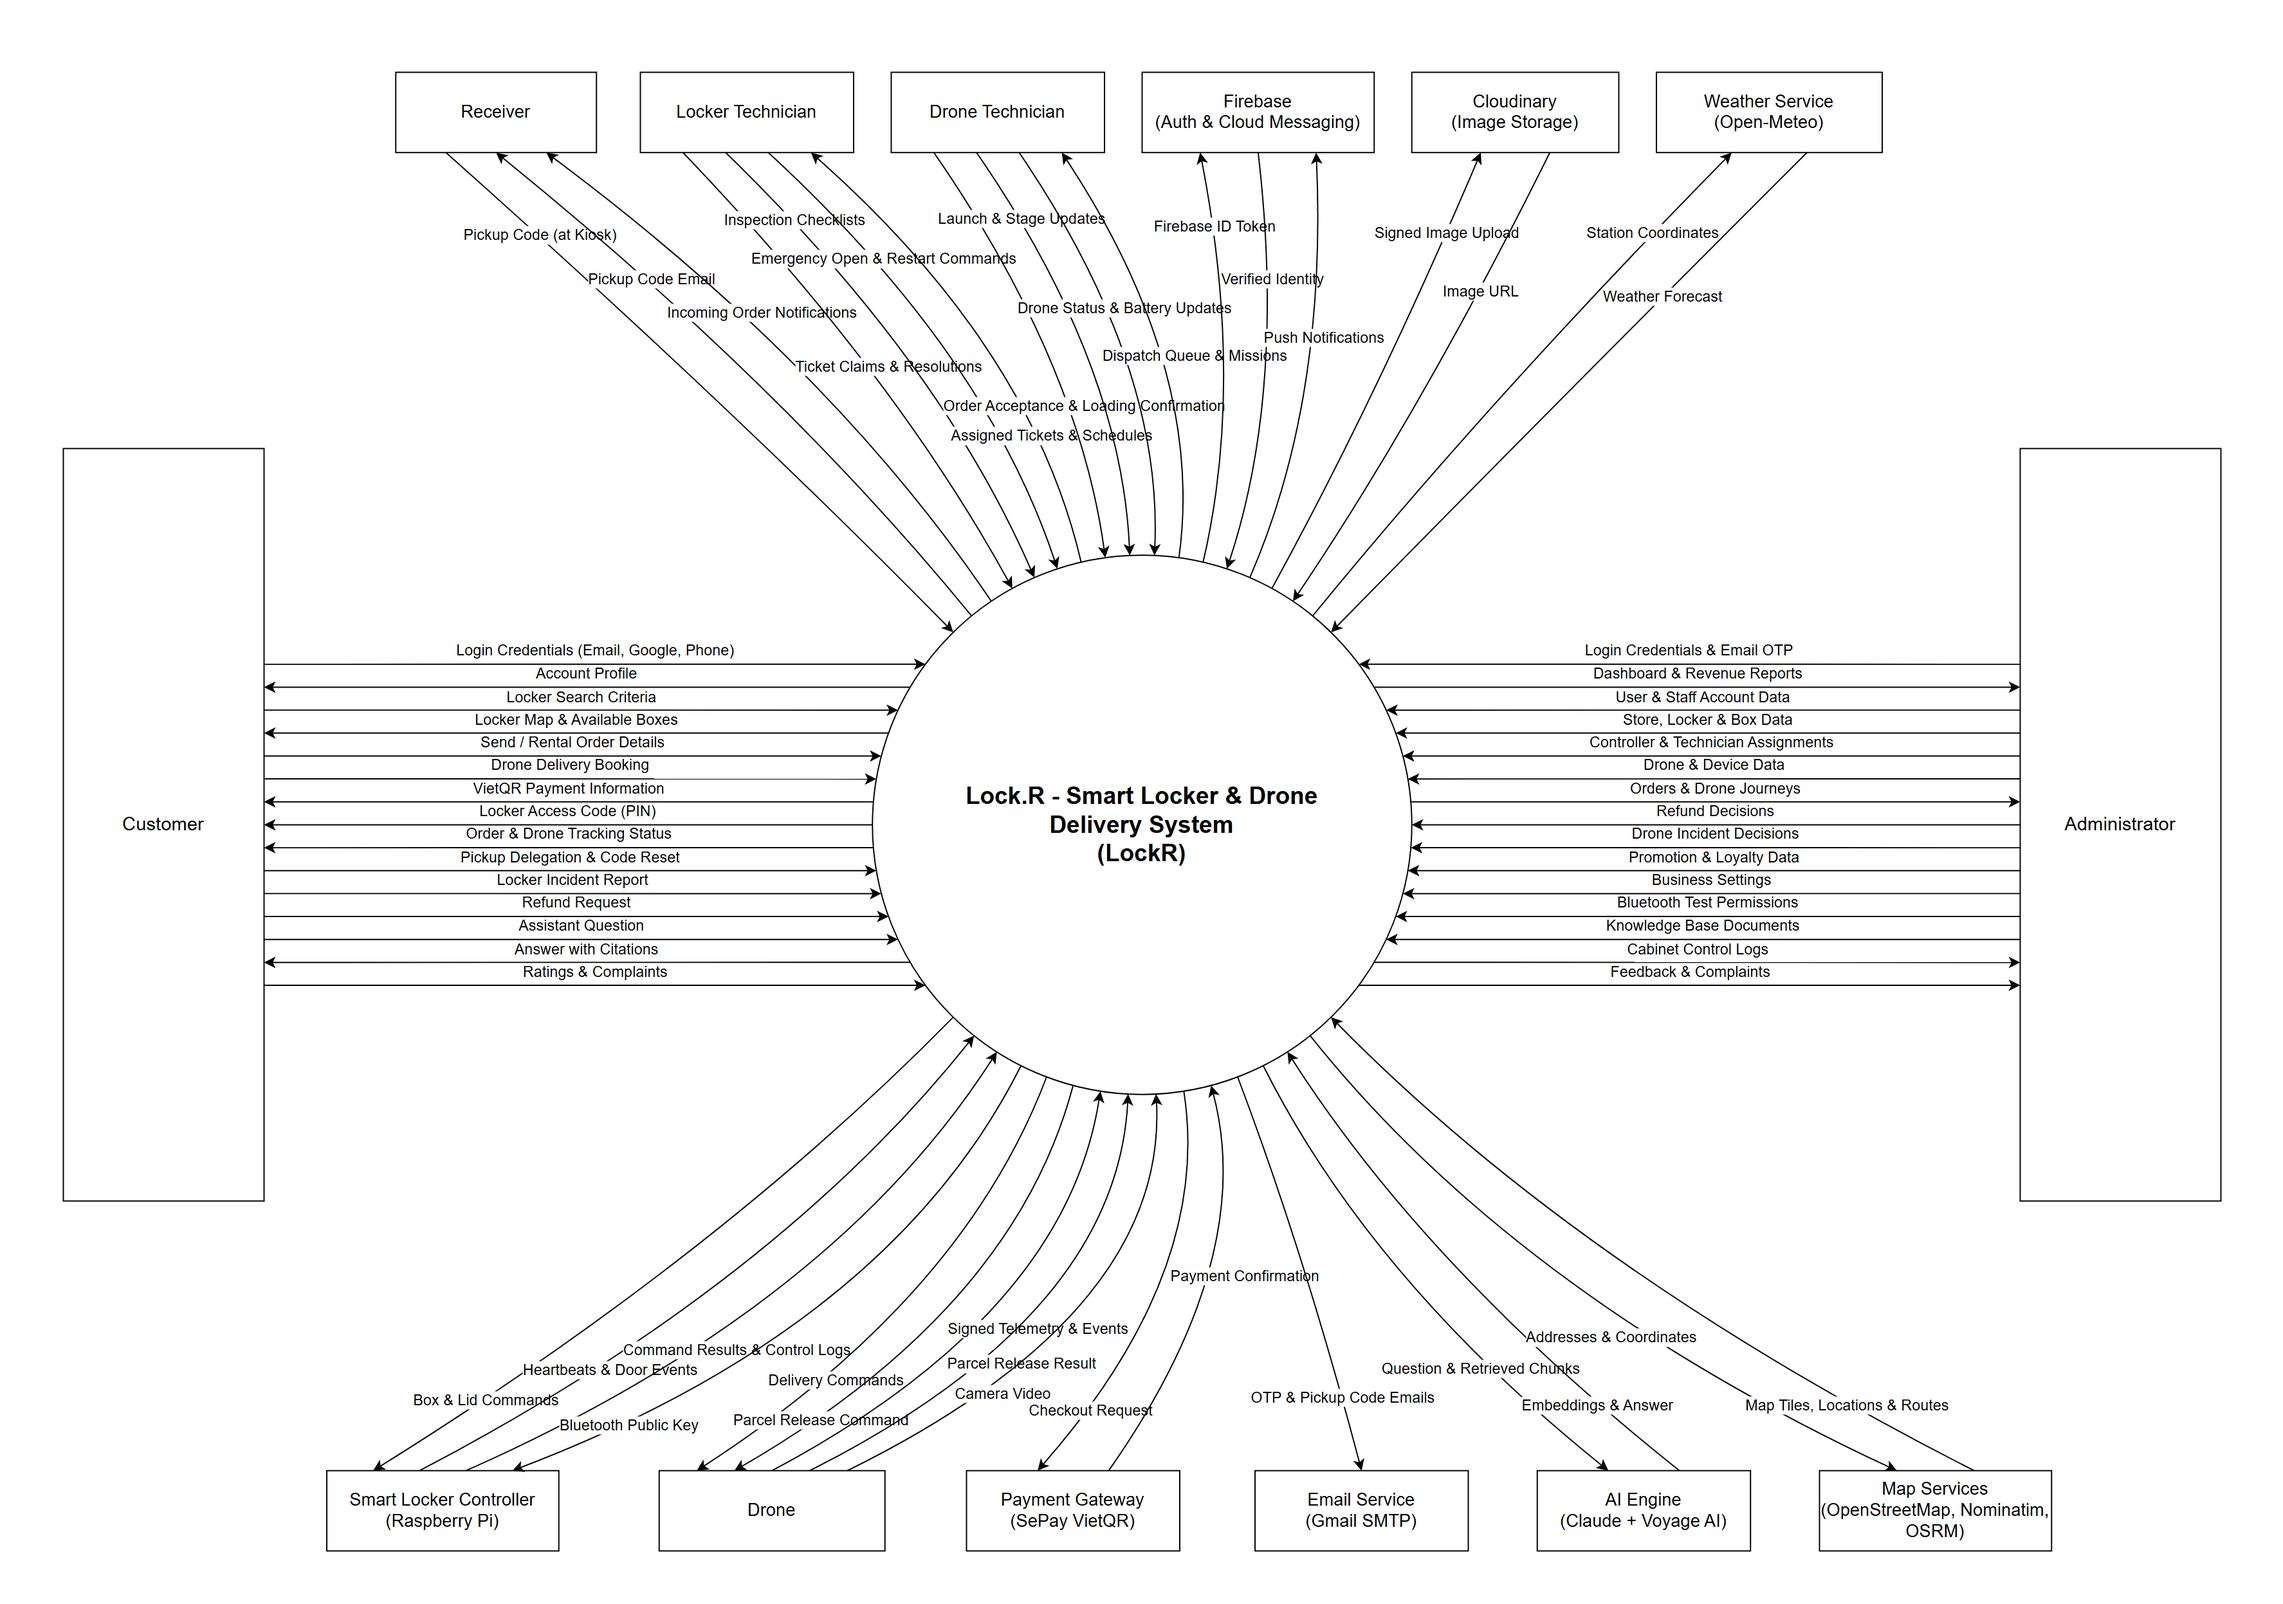
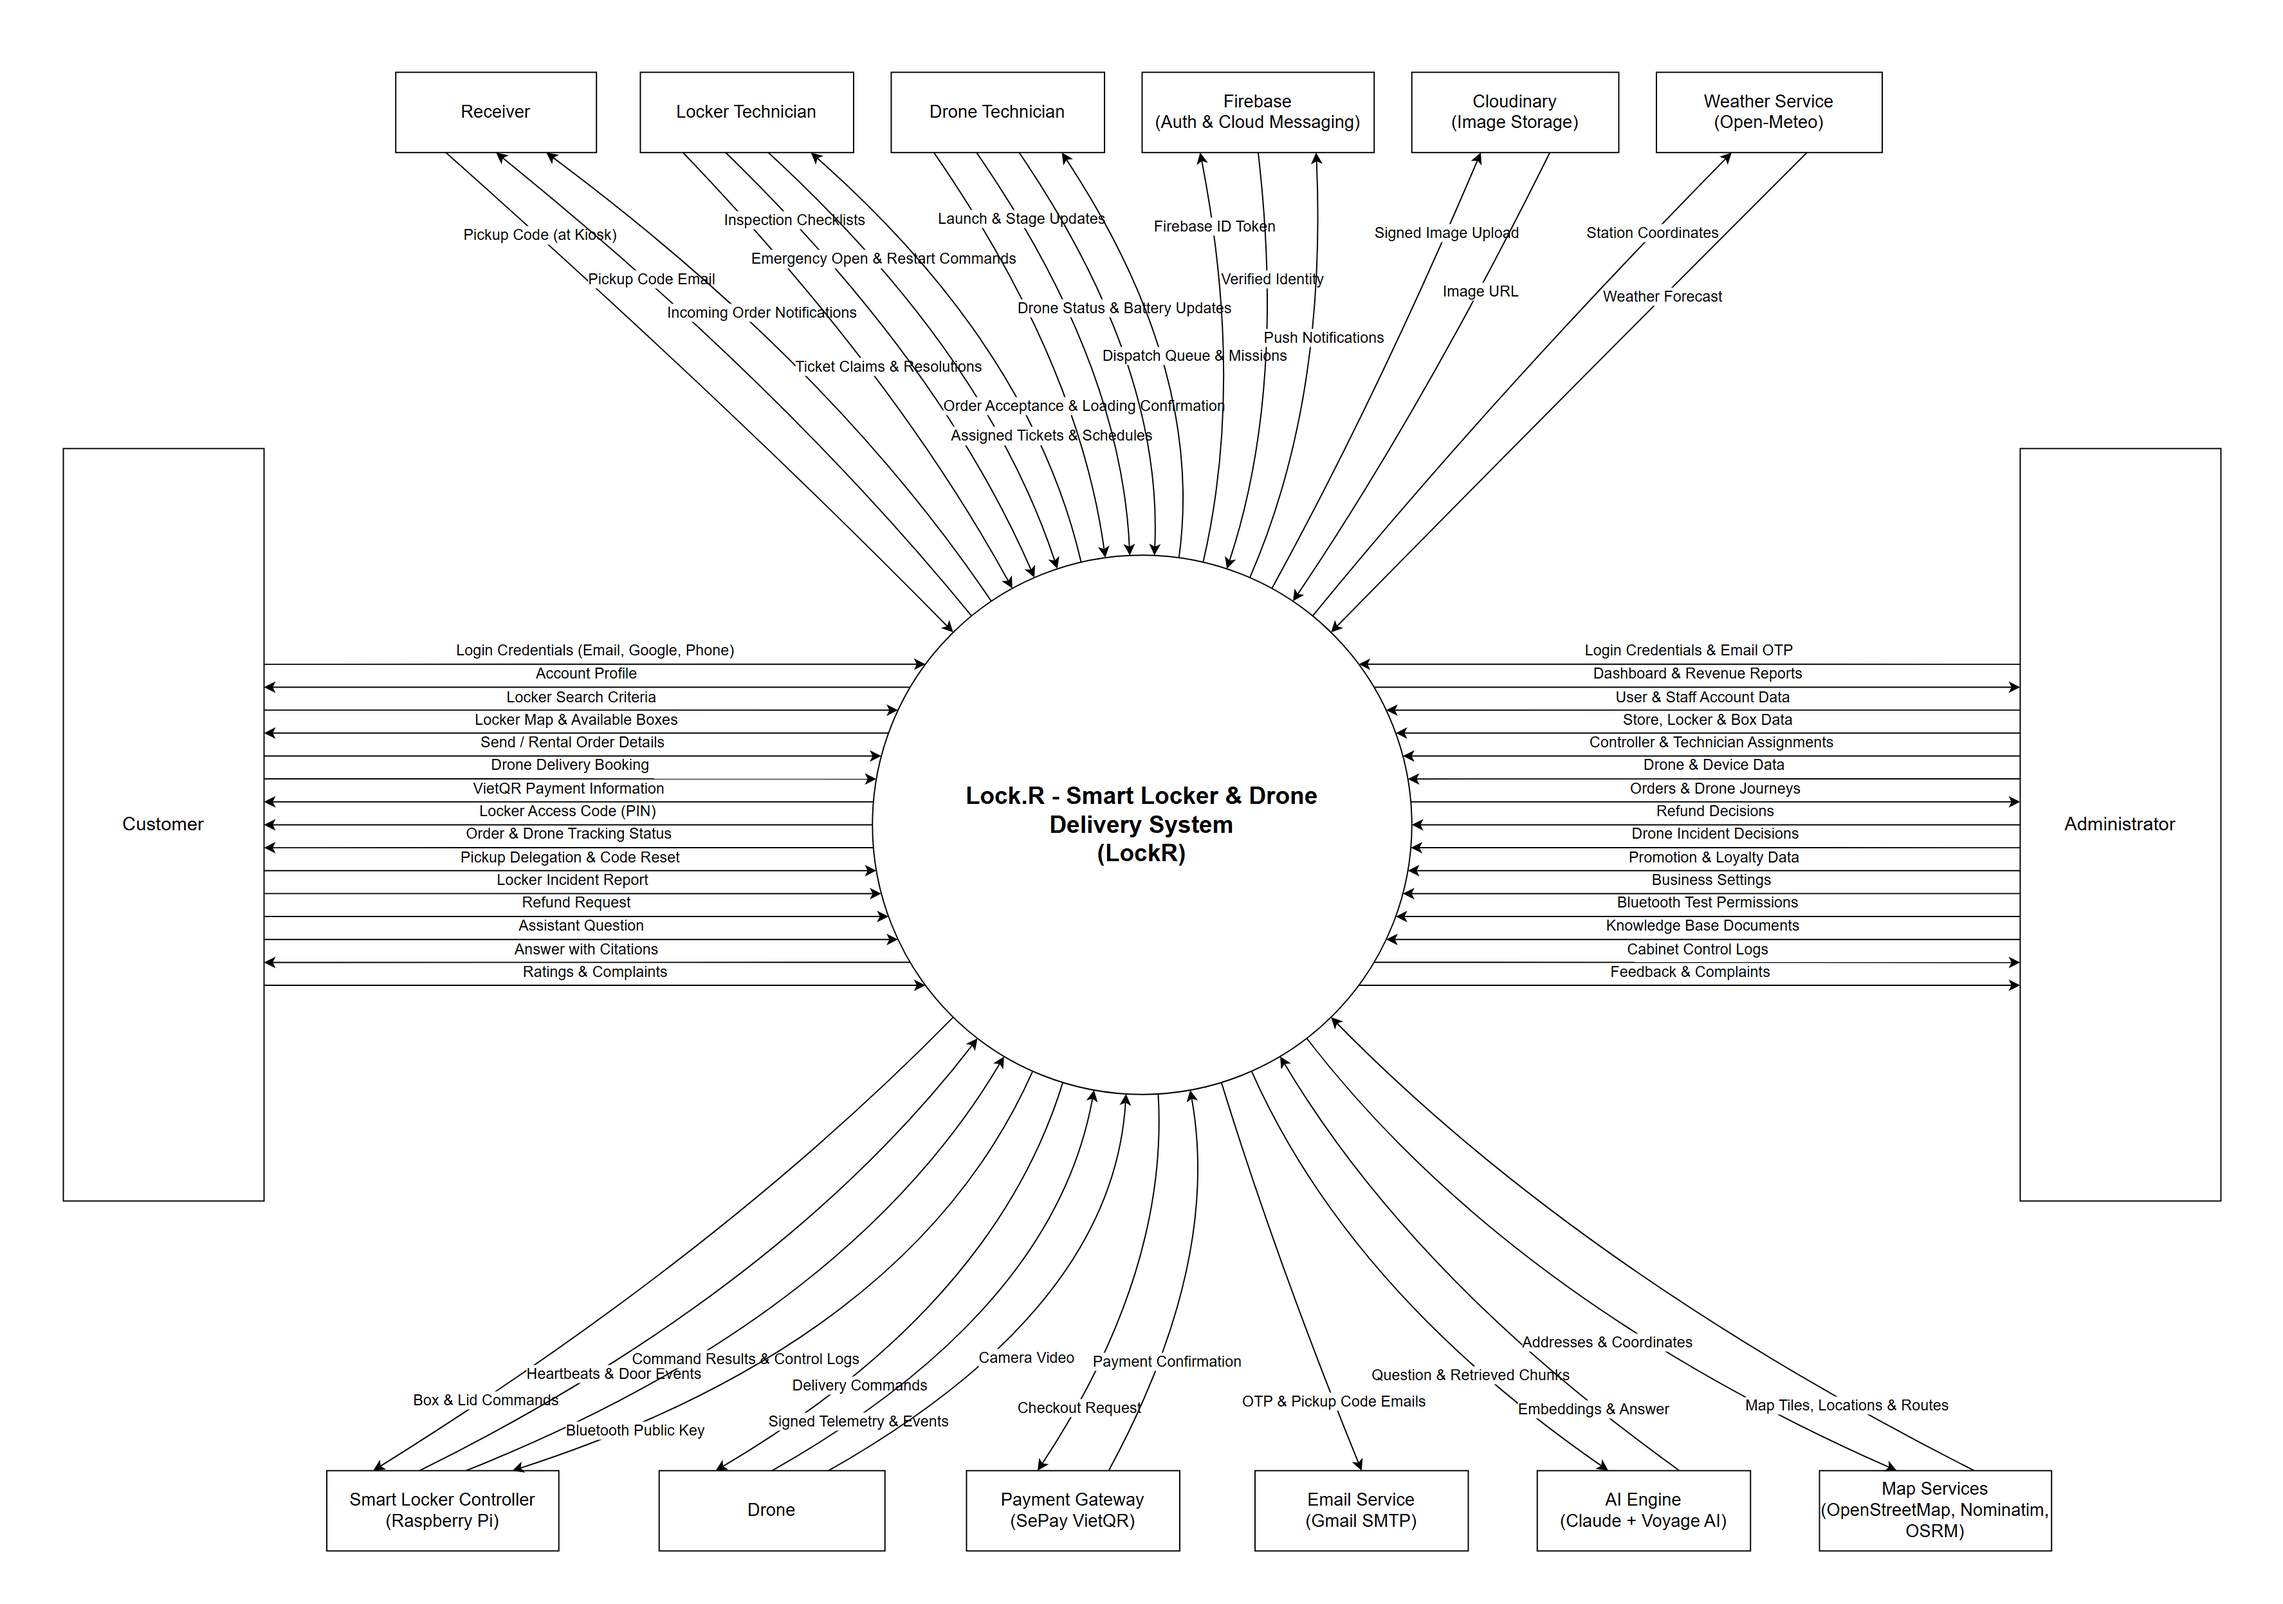
docs(diagrams): bỏ luồng nhả hàng riêng khỏi context diagram
Lệnh và kết quả nhả hàng đã nằm trong Delivery Commands và Signed Telemetry & Events; servo là cơ chế bên trong Drone, không thuộc mức ngữ cảnh.

diff --git a/rp3/srs-assets/drawio/_generator/gen_context.py b/rp3/srs-assets/drawio/_generator/gen_context.py
@@ -139,8 +139,7 @@ ring([
 ring([
     ("Smart Locker Controller<br>(Raspberry Pi)", 250, 185, [("Box &amp; Lid Commands", False), ("Heartbeats &amp; Door Events", True),
                                                    ("Command Results &amp; Control Logs", True), ("Bluetooth Public Key", False)]),
-    ("Drone", 515, 180, [("Delivery Commands", False), ("Parcel Release Command", False),
-                                                   ("Signed Telemetry &amp; Events", True), ("Parcel Release Result", True),
+    ("Drone", 515, 180, [("Delivery Commands", False), ("Signed Telemetry &amp; Events", True),
                                                    ("Camera Video", True)]),
     ("Payment Gateway<br>(SePay VietQR)", 760, 170, [("Checkout Request", False), ("Payment Confirmation", True)]),
     ("Email Service<br>(Gmail SMTP)", 990, 170, [("OTP &amp; Pickup Code Emails", False)]),
